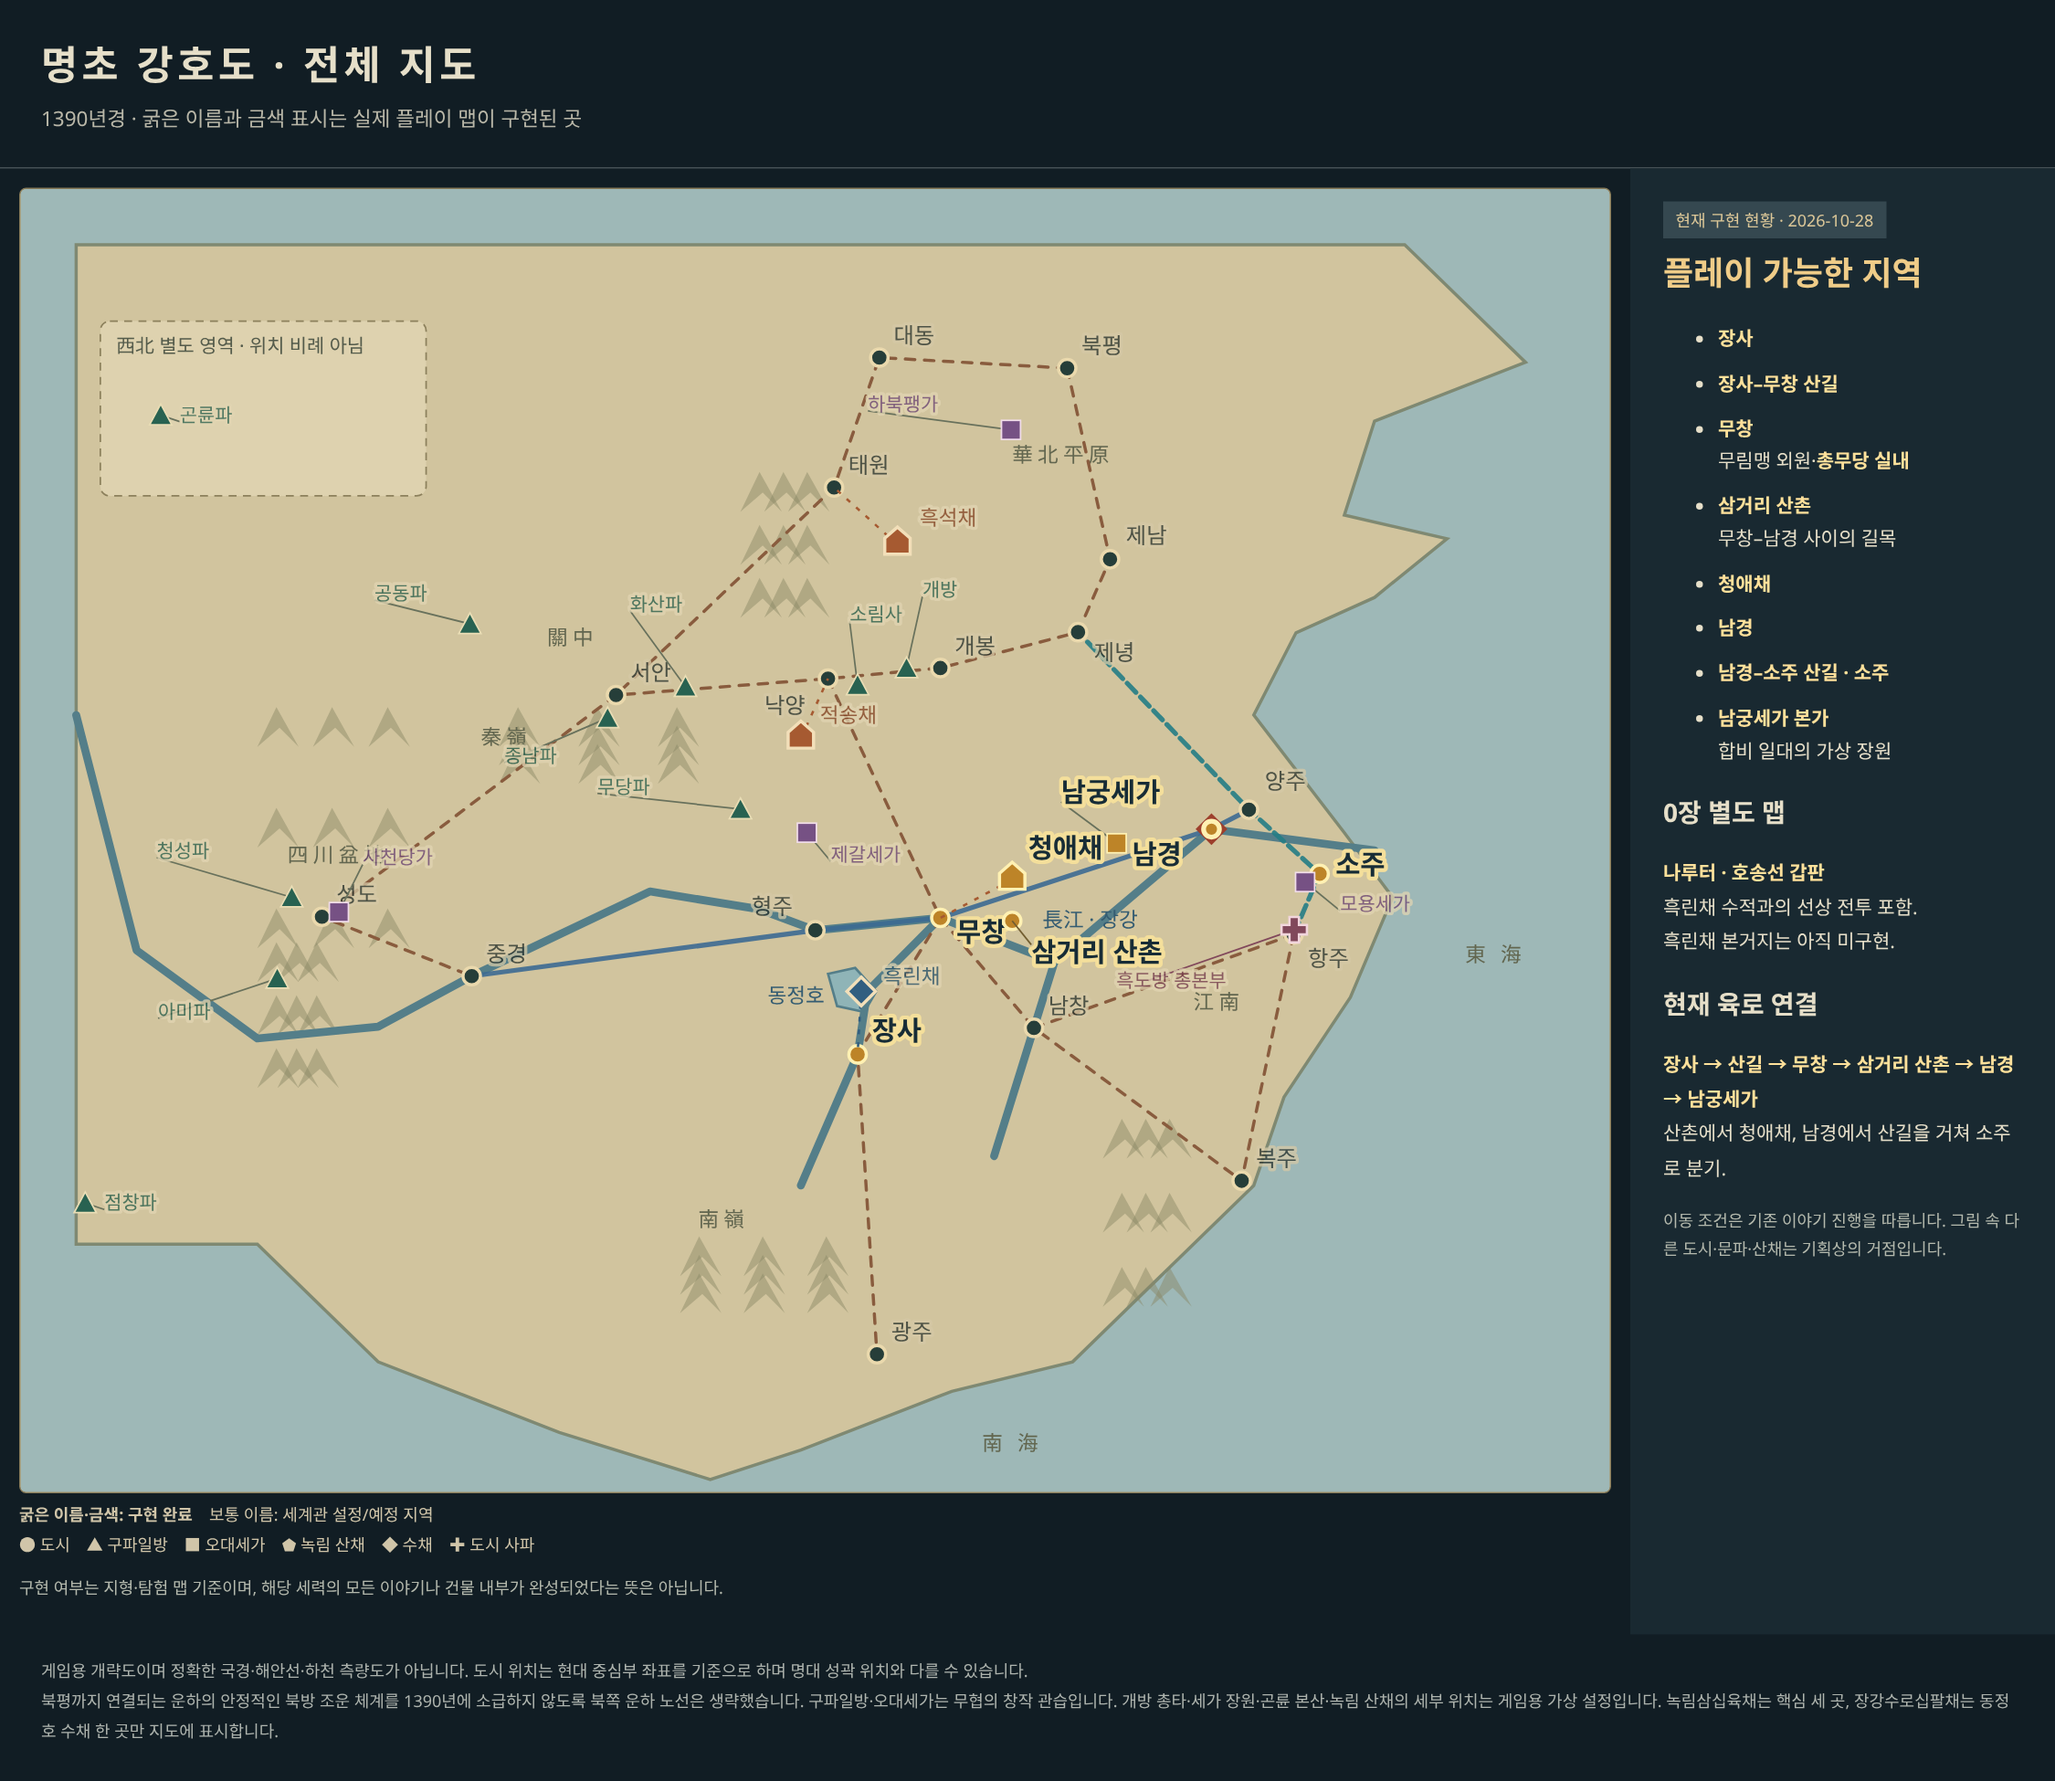
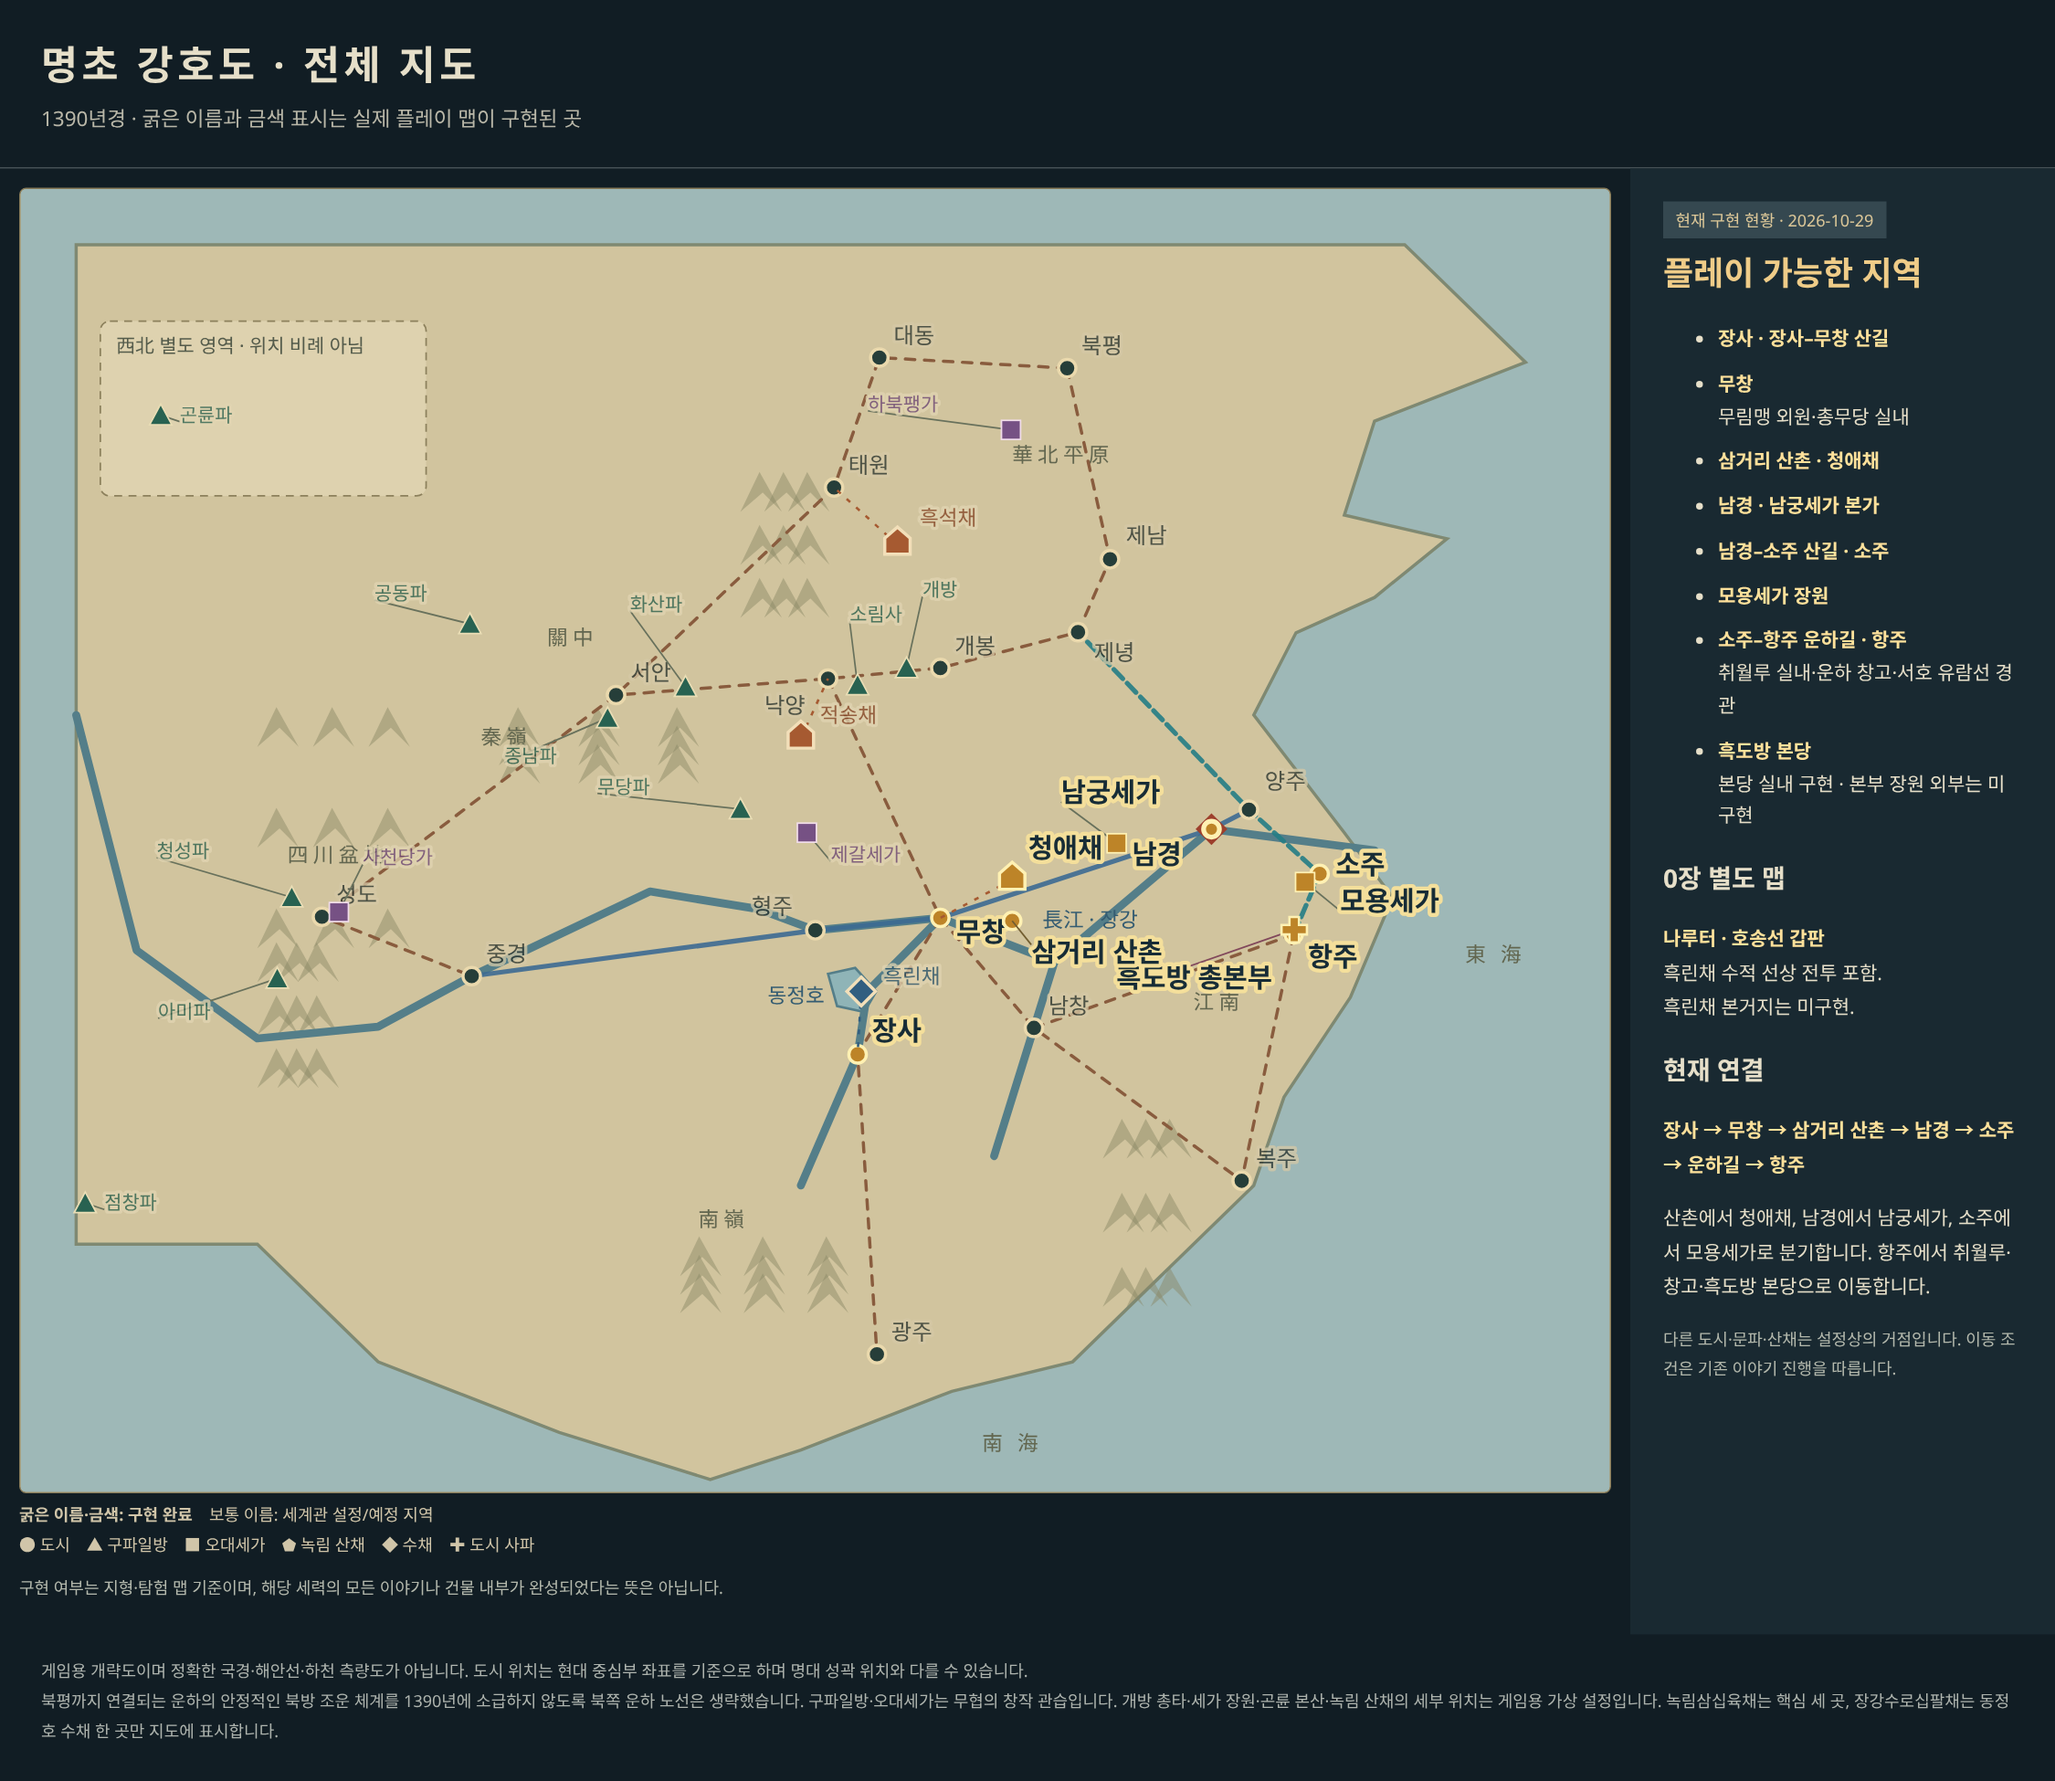
Refresh national map with current Hangzhou and Murong progress

Changed region(s): [[0.8089, 0.1846, 0.9956, 0.7692], [0.5289, 0.4923, 0.7156, 0.5538], [0.9022, 0.4308, 0.9644, 0.4615]]

diff --git a/docs/CLI_HANDOFF.md b/docs/CLI_HANDOFF.md
@@ -1,5 +1,7 @@
 # CLI 작업 인계
 
+전국지도 `world-map-progress.png/html`의 구현 강조를 모용세가·항주·흑도방 본당까지 갱신했다. 운하길/취월루/창고는 현황 목록에 포함하고, 흑도방은 본당 실내만 구현됐음을 구분했다. `tools/capture_world_progress.py`로 재생성한다.
+
 항주 서호에 큰 누각 유람선1척을 추가했다. 작은 배3척을 유지하고 빈 수면에 독립 투명 오브젝트로 배치했다. [현재 항주 맵](cities/hangzhou.md#서호의-큰-유람선).
 
 고유 전투 도트: [현재 전투3인+남궁서진 지원](characters/dedicated-battle-visuals.md)을 구현했다. 기존 도원/탐험 도트/각 초상화에 맞춘 독립4자세·인물별 공격/피격 효과이며 일반 적은 공용 시트를 유지한다. 전투 수치와 스토리는 유지한다.
